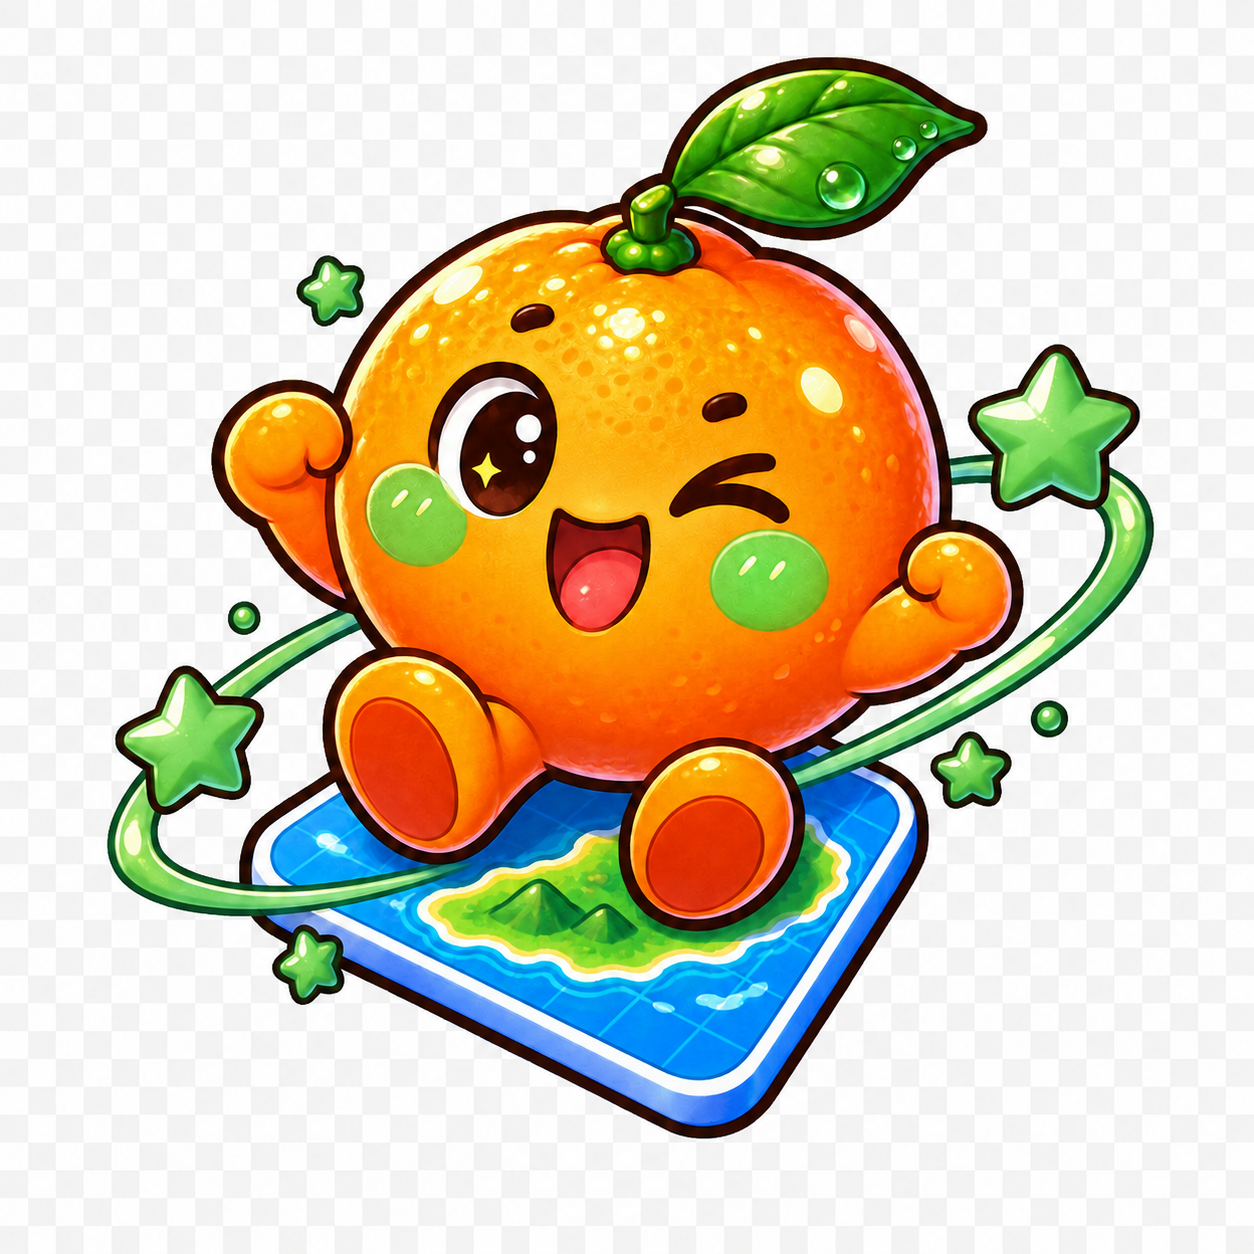
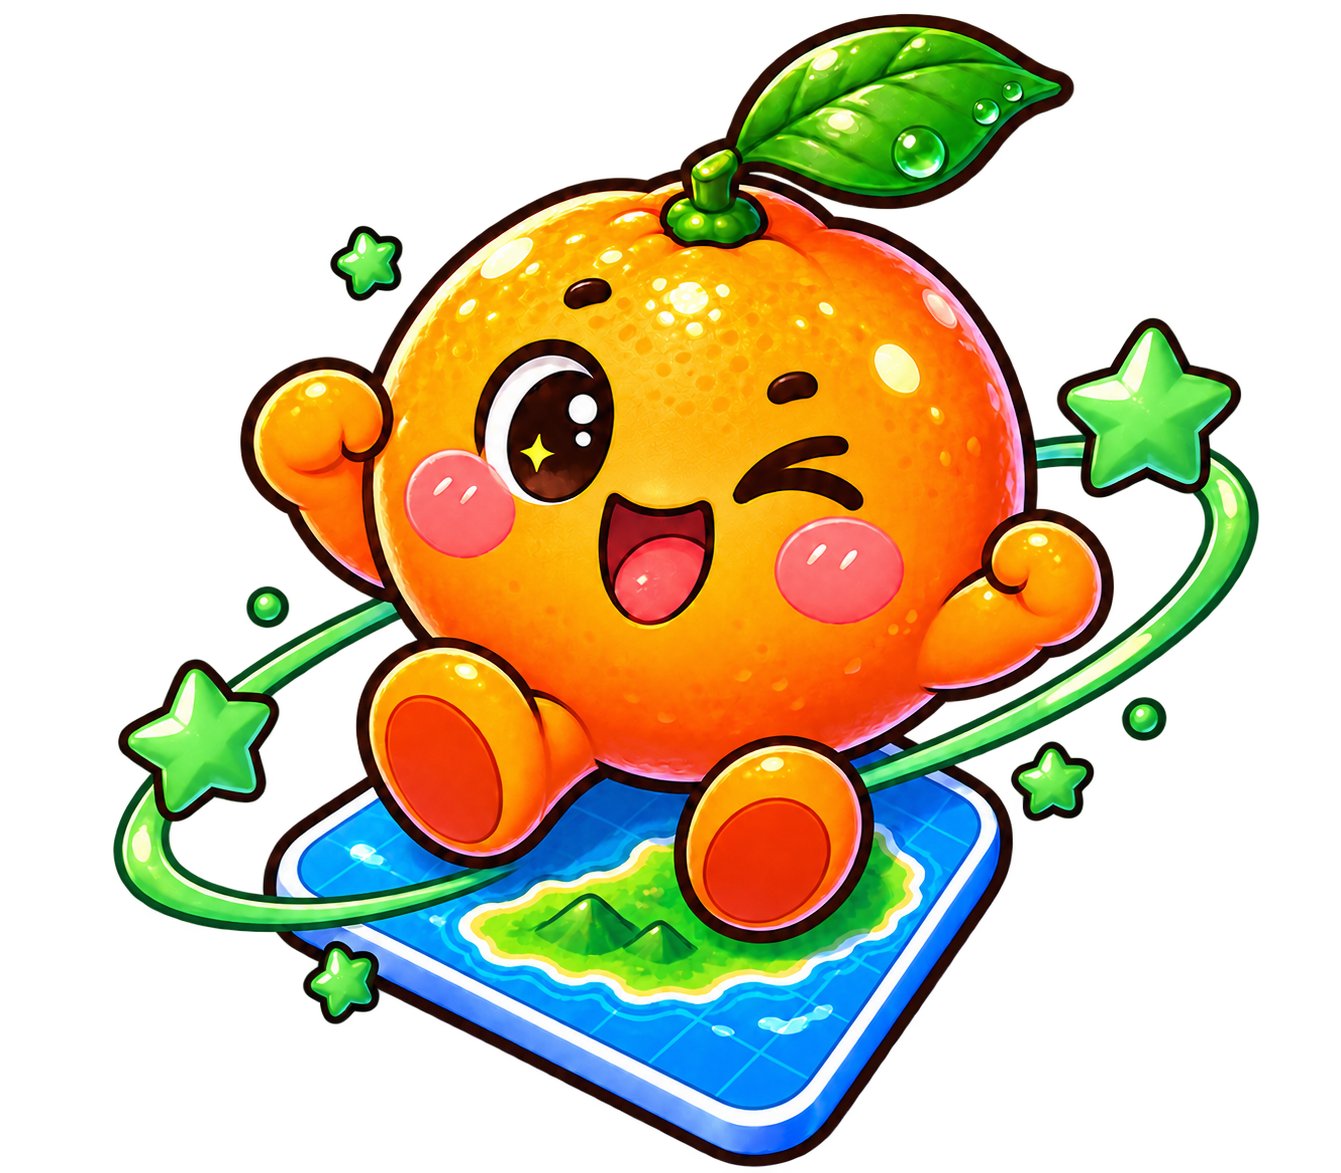
Unify tabs and refine tangerine mascot

diff --git a/app/page.tsx b/app/page.tsx
@@ -29,8 +29,8 @@ export default function Home() {
     <header className="topbar topbar-minimal">
       <div className="header-actions">{member ? <button className="profile-chip" onClick={() => setTab("mypage")}>예지님 <span>✦</span></button> : <button className="login-pill" onClick={() => setDialog("login")}>로그인 <span>→</span></button>}</div>
     </header>
-    <section className={tab === "planner" ? "welcome-band planner-hero" : "welcome-band"}>
-      <div className={tab === "planner" ? "hero-copy" : undefined}>{tab === "planner" ? <><p className="eyebrow">JEJU TRIP EDITION</p><h1>오늘 제주,<br /><strong>어디GO?</strong></h1><p>취향에 맞는 동선부터 지금 한적한 장소까지<br />여행의 망설임을 가볍게 덜어드릴게요.</p><span className="hero-sticker">슝! 코스 생성</span></> : <><p className="eyebrow">JEJU TRIP</p><h1>오늘 제주, <strong>어디GO?</strong></h1><p>취향에 맞는 동선부터 지금 한적한 장소까지<br />여행의 망설임을 가볍게 덜어드릴게요.</p></>}</div>
+    <section className={`welcome-band ${tab}-hero`}>
+      <div className={tab === "planner" ? "hero-copy" : "sub-hero-copy"}>{tab === "planner" ? <><p className="eyebrow">JEJU TRIP EDITION</p><h1>오늘 제주,<br /><strong>어디GO?</strong></h1><p>취향에 맞는 동선부터 지금 한적한 장소까지<br />여행의 망설임을 가볍게 덜어드릴게요.</p><span className="hero-sticker">슝! 코스 생성</span></> : tab === "realtime" ? <><p className="eyebrow">JEJU PICKS</p><h1>지금 제주에서<br /><strong>가볼 곳</strong></h1><p>오늘의 제주를 더 즐겁게 만드는<br />추천 장소를 한눈에 모아봤어요.</p></> : <><p className="eyebrow">MY TRAVEL</p><h1>나만의 제주<br /><strong>여행 기록</strong></h1><p>저장한 코스와 다녀온 장소를<br />이곳에서 차곡차곡 모아보세요.</p></>}</div>
       {tab === "planner" ? <div className="tangerine-float" aria-hidden="true"><img src="/planner-tangerine.png" alt="" /></div> : <div className="guide-orb" aria-label="여행 가이드"><span>🗺</span><i>✦</i></div>}
     </section>
     <section className="content-area">
@@ -60,7 +60,7 @@ function Planner({ region, setRegion, budget, setBudget, generated, setGenerated
       <div className="chip-row">{regions.map((item) => <button key={item} onClick={() => setRegion(item)} className={region === item ? "select-chip selected" : "select-chip"}>{item}</button>)}</div>
       <label className="field-label">예산 <em>숙소 제외 · 1인 기준</em></label>
       <div className="budget-row"><div className="budget-input"><input aria-label="예산" type="number" value={budget} onChange={(e) => setBudget(e.target.value)} /><span>만원</span></div>{["20", "30", "50"].map((v) => <button key={v} onClick={() => setBudget(v)} className={budget === v ? "budget-preset selected" : "budget-preset"}>{v}</button>)}</div>
-      <button className="primary-button full" onClick={() => setGenerated(true)}>AI 코스 만들기 <span>→</span></button>
+      <button className="primary-button full" onClick={() => setGenerated(true)}>나만의 코스 만들기 <span>→</span></button>
     </section>
     {generated && <section className="result-section"><div className="result-title"><div><p className="eyebrow">YOUR ROUTE</p><h2>{region}에서 시작하는 2박 3일</h2><p>이동 시간을 줄이고, 여행의 결을 살렸어요.</p></div><button className={saved ? "save-button saved" : "save-button"} onClick={onSave}>{saved ? "✓ 저장됨" : member ? "♡ 일정 저장" : "♡ 로그인 후 저장"}</button></div><div className="plan-days">{days.map(([title, entries]) => <article className="day-card" key={title}><h3>{title}</h3>{entries.map(([time, place, desc]) => <div className="route-item" key={place}><time>{time}</time><span>●</span><div><strong>{place}</strong><p>{desc}</p></div></div>)}</article>)}</div></section>}
   </>;
@@ -81,6 +81,6 @@ function MyPage({ member, open, setOpen, onLogin, onInvite }: { member: boolean;
 function Menu({ locked, onLogin, onInvite }: { locked?: boolean; onLogin?: () => void; onInvite?: () => void }) { return <div className="menu-card"><button onClick={locked ? onLogin : onInvite}>친구 초대 <span>{locked ? "🔒" : "→"}</span></button><button onClick={locked ? onLogin : undefined}>회원정보 수정 <span>{locked ? "🔒" : "›"}</span></button><button disabled>로그아웃 <span>→</span></button></div>; }
 function SectionHead({ overline, title, right }: { overline: string; title: string; right?: string }) { return <section className="section-head"><div><p className="eyebrow">{overline}</p><h2>{title}</h2></div>{right && <span className="head-right">{right}</span>}</section>; }
 
-function Login({ onClose, onLogin, onSignup }: { onClose: () => void; onLogin: (e: FormEvent) => void; onSignup: () => void }) { return <div className="modal-backdrop" role="dialog" aria-modal="true" aria-labelledby="login-title"><form className="modal-card" onSubmit={onLogin}><button type="button" className="close-button" onClick={onClose}>×</button><div className="brand-mark">GO</div><p className="eyebrow">WELCOME BACK</p><h2 id="login-title">다시 만나요, 여행자님</h2><p className="modal-copy">로그인하고 저장한 일정과 실시간 추천을 확인하세요.</p><label>아이디<input required placeholder="아이디를 입력하세요" /></label><label>비밀번호<input required type="password" placeholder="비밀번호를 입력하세요" /></label><button className="primary-button full">로그인하기</button><button type="button" className="signup-link" onClick={onSignup}>아직 어디GO 회원이 아니신가요? <b>회원가입</b></button><button type="button" className="text-button" onClick={onClose}>계속 둘러보기</button></form></div>; }
+function Login({ onClose, onLogin, onSignup }: { onClose: () => void; onLogin: (e: FormEvent) => void; onSignup: () => void }) { return <div className="modal-backdrop" role="dialog" aria-modal="true" aria-labelledby="login-title"><form className="modal-card" onSubmit={onLogin}><button type="button" className="close-button" onClick={onClose}>×</button><div className="brand-mark">GO</div><p className="eyebrow">WELCOME BACK</p><h2 id="login-title">다시 만나요, 여행자님</h2><p className="modal-copy">로그인하고 저장한 일정과 제주 추천을 확인하세요.</p><label>아이디<input required placeholder="아이디를 입력하세요" /></label><label>비밀번호<input required type="password" placeholder="비밀번호를 입력하세요" /></label><button className="primary-button full">로그인하기</button><button type="button" className="signup-link" onClick={onSignup}>아직 어디GO 회원이 아니신가요? <b>회원가입</b></button><button type="button" className="text-button" onClick={onClose}>계속 둘러보기</button></form></div>; }
 function Invite({ onClose }: { onClose: () => void }) { const [copied, setCopied] = useState(false); return <div className="modal-backdrop" role="dialog" aria-modal="true"><div className="modal-card invite-card"><button className="close-button" onClick={onClose}>×</button><div className="invite-emoji">✉</div><p className="eyebrow">TRIP INVITE</p><h2>함께 제주를 걸어요</h2><p className="modal-copy">‘9월, 천천히 걷는 제주’ 일정에 친구를 초대합니다.</p><div className="invite-code"><span>GO-JEJU-0926</span><button onClick={() => setCopied(true)}>{copied ? "복사됨" : "복사"}</button></div><button className="primary-button full" onClick={() => setCopied(true)}>{copied ? "코드를 복사했어요" : "코드 보내기"}</button></div></div>; }
-function Signup({ onBack, onSubmit }: { onBack: () => void; onSubmit: (e: FormEvent) => void }) { return <main className="signup-shell"><section className="signup-panel"><button className="text-button back" onClick={onBack}>← 돌아가기</button><div className="brand-mark">GO</div><p className="eyebrow">JEJU TRIP COMPANION</p><h1>여행 취향을 알려주세요</h1><p className="signup-copy">가입 후에는 내 일정 저장과 실시간 맞춤 추천을 이용할 수 있어요.</p><form className="signup-form" onSubmit={onSubmit}><label>이메일<input required type="email" placeholder="you@example.com" /></label><label>닉네임<input required placeholder="여행에서 부를 이름" /></label><div className="two-inputs"><label>이름<input required placeholder="이름" /></label><label>전화번호<input required type="tel" placeholder="010-0000-0000" /></label></div><label>연락처<input placeholder="선택 · 인스타그램, 카카오톡 등" /></label><label className="check-row"><input type="checkbox" required /> 필수 약관과 개인정보 처리방침에 동의합니다.</label><button className="primary-button full">가입 완료하고 시작하기</button></form></section></main>; }
+function Signup({ onBack, onSubmit }: { onBack: () => void; onSubmit: (e: FormEvent) => void }) { return <main className="signup-shell"><section className="signup-panel"><button className="text-button back" onClick={onBack}>← 돌아가기</button><div className="brand-mark">GO</div><p className="eyebrow">JEJU TRIP COMPANION</p><h1>여행 취향을 알려주세요</h1><p className="signup-copy">가입 후에는 내 일정 저장과 제주 맞춤 추천을 이용할 수 있어요.</p><form className="signup-form" onSubmit={onSubmit}><label>이메일<input required type="email" placeholder="you@example.com" /></label><label>닉네임<input required placeholder="여행에서 부를 이름" /></label><div className="two-inputs"><label>이름<input required placeholder="이름" /></label><label>전화번호<input required type="tel" placeholder="010-0000-0000" /></label></div><label>연락처<input placeholder="선택 · 인스타그램, 카카오톡 등" /></label><label className="check-row"><input type="checkbox" required /> 필수 약관과 개인정보 처리방침에 동의합니다.</label><button className="primary-button full">가입 완료하고 시작하기</button></form></section></main>; }

diff --git a/app/globals.css b/app/globals.css
@@ -243,3 +243,15 @@ button{cursor:pointer}
 .stat-card strong{color:#3f9a48}.list-row{background:#eaf5df;border:2px solid #9ecc90}.list-row>span{background:#dff4ce;color:#2e6b3a}
 .menu-card{border:3px solid #2e6b3a;box-shadow:6px 6px 0 #b8d69b}.menu-card button{background:#fffdf5}.menu-card button:hover{background:#eaf5df}
 @media(max-width:520px){.planner-hero{min-height:290px}.tangerine-float{bottom:-5px}.result-section{padding:18px 12px 14px}}
+
+/* 제주 추천 · 마이페이지도 같은 귤·초록 세계관으로 연결 */
+.realtime-hero,.mypage-hero{min-height:252px;padding-top:30px;padding-bottom:30px;overflow:hidden;border-bottom:5px solid #3f9a48;background:linear-gradient(132deg,#fff8cf 0%,#ffe89a 50%,#f7c978 100%)}
+.realtime-hero:after,.mypage-hero:after{background:#cceab7;opacity:.7;z-index:0}
+.realtime-hero:before,.mypage-hero:before{content:"";position:absolute;left:-25px;bottom:24px;width:135px;height:48px;border:5px solid #3f9a48;border-radius:50%;transform:rotate(-13deg);z-index:0}
+.mypage-hero{background:linear-gradient(132deg,#eef8d9 0%,#fff0ad 52%,#ffd281 100%)}
+.sub-hero-copy{position:relative;z-index:2}
+.sub-hero-copy .eyebrow{display:inline-block;margin:0 0 11px;padding:6px 9px;border:2px solid #2e6b3a;border-radius:5px;background:#3f9a48;color:#fff;box-shadow:3px 3px 0 #2e6b3a;font-size:9px;font-weight:900;letter-spacing:1px;transform:rotate(-2deg)}
+.sub-hero-copy h1{margin:0 0 9px;color:#2e6b3a;font-size:35px;line-height:1.04;letter-spacing:-2px;text-shadow:2px 2px 0 #fff}.sub-hero-copy h1 strong{color:#3f9a48}.sub-hero-copy p:not(.eyebrow){margin:0;color:#2e6b3a;font-size:13px;font-weight:700;line-height:1.48}
+.realtime-hero .guide-orb,.mypage-hero .guide-orb{z-index:2;border:3px solid #2e6b3a;background:#ff8a1e;box-shadow:5px 5px 0 #3f9a48;transform:rotate(8deg)}
+.realtime-hero .guide-orb i,.mypage-hero .guide-orb i{color:#fff8cf}
+@media(max-width:520px){.realtime-hero,.mypage-hero{min-height:245px}.sub-hero-copy h1{font-size:31px}.sub-hero-copy p:not(.eyebrow){max-width:230px}.realtime-hero .guide-orb,.mypage-hero .guide-orb{right:21px}}
